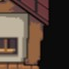
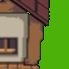
load sprites with bg

diff --git a/src/main.cpp b/src/main.cpp
@@ -3,11 +3,68 @@
 #include <list>
 #include <memory>
 #include "RPG_Maps.h"
+
 const float PI = 3.14159f;
+
+class Player {
+private:
+    SDL_RendererFlip flipType;
+    SDL_Rect spriteClips[4];
+    int frame;
+    LTexture texture;
+public:
+
+    void initSpriteClips() {
+        spriteClips[0].x = 0;
+        spriteClips[0].y = 0;
+        spriteClips[0].w = 64;
+        spriteClips[0].h = 205;
+
+        spriteClips[1].x = 64;
+        spriteClips[1].y = 0;
+        spriteClips[1].w = 64;
+        spriteClips[1].h = 205;
+
+        spriteClips[2].x = 128;
+        spriteClips[2].y = 0;
+        spriteClips[2].w = 64;
+        spriteClips[2].h = 205;
+
+        spriteClips[3].x = 192;
+        spriteClips[3].y = 0;
+        spriteClips[3].w = 64;
+        spriteClips[3].h = 205;
+    }
+
+    Player() {
+        texture.loadTextureFromFile("../res/graphics/man.png", true, {0, 0xFF, 0xFF});
+        initSpriteClips();
+        frame = 0;
+        flipType = SDL_FLIP_NONE;
+    }
+
+    void drawPlayer(int x, int y, int w, int h) {
+        SDL_Rect *currentClip = nullptr;
+//        if (std::abs(vx) > 4 && std::abs(vx) < 6) {
+        if (0) {
+            currentClip = &spriteClips[frame / 2];
+        } else {
+            currentClip = &spriteClips[0];
+        }
+        texture.drawTexture(x, y, w, h, currentClip, 0,
+                            NULL,
+                            flipType);
+        frame++;
+        if (frame / 2 >= 4) {
+            frame = 0;
+        }
+    }
+};
 
 class Echoes : public GameEngine {
 private:
     cMap *pCurrentMap = nullptr;
+    Player *player = nullptr;
     // positions in tiles space
     float fCameraPosX = 0.0f;
     float fCameraPosY = 0.0f;
@@ -43,13 +100,13 @@ public:
     }
 
     bool onInit() override {
-
-
+        player = new Player();
         nTileWidth = 24;
         nTileHeight = 24;
         pCurrentMap = new cMap_Village();
         return true;
     }
+
 
     bool onFrameUpdate(float fElapsedTime) override {
 
@@ -75,15 +132,15 @@ public:
         // resolve collision along X axis, if any
         if (fPlayerVelX < 0) {
             if (pCurrentMap->GetSolid(static_cast<int>(fNewPlayerPosX), static_cast<int>(fPlayerPosY)) ||
-                    pCurrentMap->GetSolid(static_cast<int>(fNewPlayerPosX), static_cast<int>(fPlayerPosY + 0.9)) ) {
+                pCurrentMap->GetSolid(static_cast<int>(fNewPlayerPosX), static_cast<int>(fPlayerPosY + 0.9))) {
                 // cast the new position to an integer and shift by 1 so that the player is on the boundary
                 // of the colliding tile, instead of leaving some space
                 fNewPlayerPosX = static_cast<int>(fNewPlayerPosX) + 1;
                 fPlayerVelX = 0;
             }
         } else if (fPlayerVelX > 0) {
-            if (pCurrentMap->GetSolid(static_cast<int>(fNewPlayerPosX + 1), static_cast<int>(fPlayerPosY))  ||
-                    pCurrentMap->GetSolid(static_cast<int>(fNewPlayerPosX + 1), static_cast<int>(fPlayerPosY + 0.9)) ) {
+            if (pCurrentMap->GetSolid(static_cast<int>(fNewPlayerPosX + 1), static_cast<int>(fPlayerPosY)) ||
+                pCurrentMap->GetSolid(static_cast<int>(fNewPlayerPosX + 1), static_cast<int>(fPlayerPosY + 0.9))) {
                 fNewPlayerPosX = static_cast<int>(fNewPlayerPosX);
                 fPlayerVelX = 0;
             }
@@ -91,13 +148,13 @@ public:
         // check collision along y
         if (fPlayerVelY < 0) {
             if (pCurrentMap->GetSolid(static_cast<int>(fNewPlayerPosX), static_cast<int>(fNewPlayerPosY)) ||
-                    pCurrentMap->GetSolid(static_cast<int>(fNewPlayerPosX + 0.9), static_cast<int>(fNewPlayerPosY)) ) {
+                pCurrentMap->GetSolid(static_cast<int>(fNewPlayerPosX + 0.9), static_cast<int>(fNewPlayerPosY))) {
                 fNewPlayerPosY = static_cast<int>(fNewPlayerPosY) + 1;
                 fPlayerVelY = 0;
             }
         } else if (fPlayerVelY > 0) {
             if (pCurrentMap->GetSolid(static_cast<int>(fNewPlayerPosX), static_cast<int>(fNewPlayerPosY + 1)) ||
-                    pCurrentMap->GetSolid(static_cast<int>(fNewPlayerPosX + 0.9), static_cast<int>(fNewPlayerPosY + 1))) {
+                pCurrentMap->GetSolid(static_cast<int>(fNewPlayerPosX + 0.9), static_cast<int>(fNewPlayerPosY + 1))) {
                 fNewPlayerPosY = static_cast<int>(fNewPlayerPosY);
                 fPlayerVelY = 0;
             }
@@ -132,26 +189,14 @@ public:
             for (int y = -1; y < nVisibleTilesY + 1; y++) {
                 int spriteIdx = pCurrentMap->GetIndex(x + static_cast<int>(fOffsetX), y + static_cast<int>(fOffsetY));
                 LTexture *texture = pCurrentMap->vSprites[spriteIdx];
-                texture->drawTexture(static_cast<int>((x - fTileOffsetX) * nTileWidth), static_cast<int>((y - fTileOffsetY) * nTileHeight), nTileWidth, nTileHeight);
-//                switch (sTileId) {
-//                    case '.':
-//                        fillRect(static_cast<int>((x - fTileOffsetX) * nTileWidth),
-//                                 static_cast<int>((y - fTileOffsetY) * nTileHeight), nTileWidth, nTileHeight,
-//                                 {0, 0xFF, 0xFF});
-//                        break;
-//                    case '#':
-//                        fillRect(static_cast<int>((x - fTileOffsetX) * nTileWidth),
-//                                 static_cast<int>((y - fTileOffsetY) * nTileHeight), nTileWidth, nTileHeight,
-//                                 {0xFF, 0xFF, 0});
-//                        break;
-//                    default:
-//                        break;
-//                }
+                texture->drawTexture(static_cast<int>((x - fTileOffsetX) * nTileWidth),
+                                     static_cast<int>((y - fTileOffsetY) * nTileHeight), nTileWidth, nTileHeight);
             }
         }
         // draw player
-        fillRect(static_cast<int>((fPlayerPosX - fOffsetX) * nTileWidth),
-                 static_cast<int>((fPlayerPosY - fOffsetY) * nTileHeight), nTileWidth, nTileHeight);
+
+        player->drawPlayer(static_cast<int>((fPlayerPosX - fOffsetX) * nTileWidth),
+                          static_cast<int>((fPlayerPosY - fOffsetY) * nTileHeight), nTileWidth, nTileHeight);
 
         return true;
     }

diff --git a/include/SimpleGameEngine.cpp b/include/SimpleGameEngine.cpp
@@ -78,7 +78,7 @@ bool LTexture::loadTextureFromText(const std::string &text, SDL_Color color) {
     return true;
 }
 
-bool LTexture::loadTextureFromFile(std::string path) {
+bool LTexture::loadTextureFromFile(std::string path, bool toColorKey, SDL_Color colorKey) {
 
     //Get rid of preexisting texture
     free();
@@ -91,8 +91,11 @@ bool LTexture::loadTextureFromFile(std::string path) {
     if (loadedSurface == NULL) {
         std::cout << "Unable to load image " << path << " SDL_image Error: \n" << IMG_GetError() << std::endl;
     } else {
-        //Color key image
-        SDL_SetColorKey(loadedSurface, SDL_TRUE, SDL_MapRGB(loadedSurface->format, 0, 0xFF, 0xFF));
+        if(toColorKey){
+            //Color key image
+            SDL_SetColorKey(loadedSurface, SDL_TRUE, SDL_MapRGB(loadedSurface->format, colorKey.r, colorKey.g, colorKey.b));
+        }
+
 
         //Create texture from surface pixels
         newTexture = SDL_CreateTextureFromSurface(gRenderer, loadedSurface);
@@ -112,6 +115,10 @@ bool LTexture::loadTextureFromFile(std::string path) {
     mTexture = newTexture;
     return mTexture != NULL;
 
+}
+
+void LTexture::setColorMod(SDL_Color color) {
+    SDL_SetTextureColorMod(mTexture, color.r, color.g, color.b);
 }
 
 

diff --git a/src/RPG_Maps.cpp b/src/RPG_Maps.cpp
@@ -5,6 +5,7 @@
 #include "RPG_Maps.h"
 #include <fstream>
 #include <map>
+#include <utility>
 
 cMap::cMap() {
     nWidth = 0;
@@ -35,7 +36,7 @@ bool cMap::GetSolid(int x, int y) {
 
 bool cMap::Create(const std::string& fileData, std::vector<LTexture *> spriteList, const std::string& name) {
     sName = name;
-    vSprites = spriteList;
+    vSprites = std::move(spriteList);
     std::ifstream data(fileData, std::ios::in | std::ios::binary);
     if (data.is_open()){
         data >> nWidth >> nHeight;
@@ -85,9 +86,9 @@ cMap_Village::cMap_Village() {
     spriteMap[29] = basePath + "pave.png";
 
     std::vector<LTexture *> vSpritelist;
-    for (int i=0; i < 30; i++){
+    for (const auto & spritePath : spriteMap){
         LTexture *spr = new LTexture();
-        spr->loadTextureFromFile(spriteMap[i]);
+        spr->loadTextureFromFile(spritePath);
         vSpritelist.emplace_back(spr);
     }
 

diff --git a/include/SimpleGameEngine.hpp b/include/SimpleGameEngine.hpp
@@ -22,10 +22,11 @@ public:
 
     bool loadTextureFromText(const std::string &text, SDL_Color color);
 
-    bool loadTextureFromFile(std::string path);
+    bool loadTextureFromFile(std::string path, bool toColorKey = false, SDL_Color colorKey = {0,0,0});
 
     void drawTexture(int x, int y, int w = 0, int h = 0, SDL_Rect *clip = NULL,
                      double angle = 0.0, SDL_Point *center = NULL, SDL_RendererFlip flip = SDL_FLIP_NONE);
+    void setColorMod(SDL_Color color);
 
     int getWidth() const;
 
